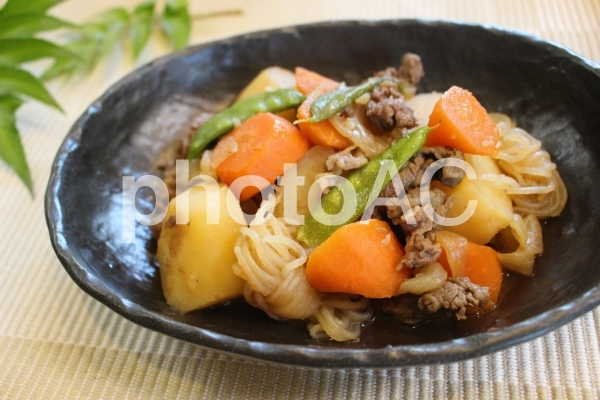
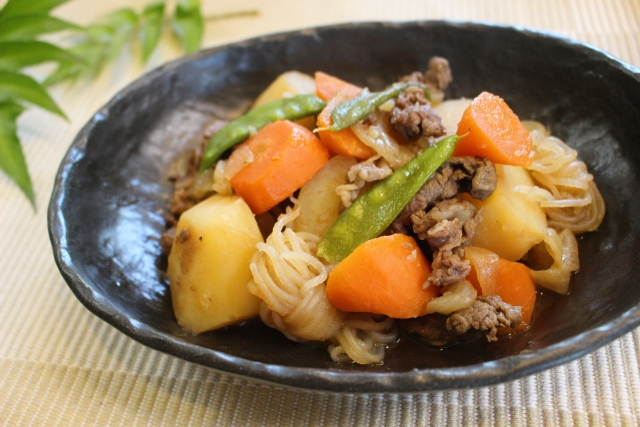
css調整

Changed region(s): [[0.18, 0.39, 0.81, 0.63]]

diff --git a/scss/style.scss b/scss/style.scss
@@ -642,9 +642,6 @@ mypage
     .recipeList-body {
       .panel {
         margin-right: 1.7%;
-        &-title {
-          margin-top: 10px;
-        }
       }
       &.flex {
         margin-left: 0;
@@ -720,7 +717,8 @@ mypage
     }
     .panel-body {
       color: $footer;
-      font-size: $font_m
+      font-size: $font_m;
+      margin-top: 10px;
     }
     &:hover {
       opacity: .8;

diff --git a/php/mypage.php b/php/mypage.php
@@ -57,7 +57,7 @@ debug('画面表示処理終了<<<<<<<<<<<<<<<<<<<<<<<<<<<<<<<<<<<<<<<<<<<<<<<<<
           ?>
             <a class="panel" href="recipeDetail.php?r_id=<?php echo $val['recipe_id'].'&l_p='.$likeCurrentPageNum.'&c_p='.$cookCurrentPageNum; ?>">
               <div class="panel-head">
-                <img src="<?php echo sanitize($val['image']); ?>" alt="<?php echo sanitize($val['recipe_name']); ?>">
+                <img src="../img/nikujaga.jpg" alt="<?php echo sanitize($val['recipe_name']); ?>">
               </div>
               <div class="panel-body">
                 <p class="panel-title"><?php echo sanitize($val['recipe_name']); ?></p>
@@ -121,7 +121,7 @@ debug('画面表示処理終了<<<<<<<<<<<<<<<<<<<<<<<<<<<<<<<<<<<<<<<<<<<<<<<<<
           ?>
             <a class="panel" href="recipeDetail.php?r_id=<?php echo $val['recipe_id'].'&l_P='.$likeCurrentPageNum.'&c_p='.$cookCurrentPageNum; ?>">
               <div class="panel-head">
-                <img src="<?php echo sanitize($val['image']); ?>" alt="<?php echo sanitize($val['recipe_name']); ?>">
+                <img src="../img/nikujaga.jpg" alt="<?php echo sanitize($val['recipe_name']); ?>">
               </div>
               <div class="panel-body">
                 <p class="panel-title"><?php echo sanitize($val['recipe_name']); ?></p>

diff --git a/php/recipeList.php b/php/recipeList.php
@@ -113,7 +113,7 @@ debug('画面表示処理終了<<<<<<<<<<<<<<<<<<<<<<<<<<<<<<<<<<<<<<<<<<<<<<<<<
           ?>
             <a href="recipeDetail.php?r_id=<?php echo (empty($_GET['c_id'])) ? $val['recipe_id'].'&p='.$currentPageNum : $val['recipe_id'].'&p='.$currentPageNum.'&c_id='.$getLink; ?>" class="panel">
               <div class="panel-head">
-                <img src="<?php echo sanitize($val['image']); ?>" alt="<?php echo sanitize($val['recipe_name']); ?>">
+                <img src="../img/nikujaga.jpg" alt="<?php echo sanitize($val['recipe_name']); ?>">
               </div>
               <div class="panel-body">
                 <p class="panel-title"><?php echo sanitize($val['recipe_name']); ?></p>

diff --git a/php/recipeDetail.php b/php/recipeDetail.php
@@ -63,7 +63,7 @@ debug('画面表示処理終了<<<<<<<<<<<<<<<<<<<<<<<<<<<<<<<<<<<<<<<<<<<<<<<<<
     <div class="recipeDetail-main">
       <div class="flex main-top">
         <div class="recipe-image">
-          <img src="<?php echo sanitize($viewData['image']); ?>" alt="<?php echo sanitize($viewData['recipe_name']); ?>">
+          <img src="../img/nikujaga.jpg" alt="<?php echo sanitize($viewData['recipe_name']); ?>">
         </div>
         <div class="recipe-ingredient border">
           <h3 class="sub-title">材料<span class="n_people">（<?php echo sanitize($viewData['n_people']); ?>人分）</span></h3>
